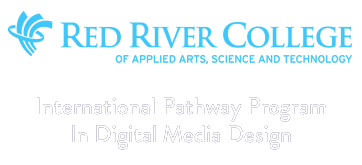
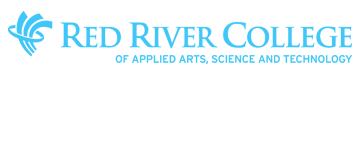
New

diff --git a/index.html b/index.html
@@ -12,7 +12,7 @@
     body {
         margin: 0;
         padding:0;
-        background-color: bisque;
+        background: url(../img/bg5.png);
     }
     
     .loading-process {

diff --git a/style/style.css b/style/style.css
@@ -1368,7 +1368,7 @@ h4 {
 }
 
 h5{
-    font-size: 1.2em;
+    font-size: 1.1em;
     color:#ffffff;
     font-weight:200;
 }
